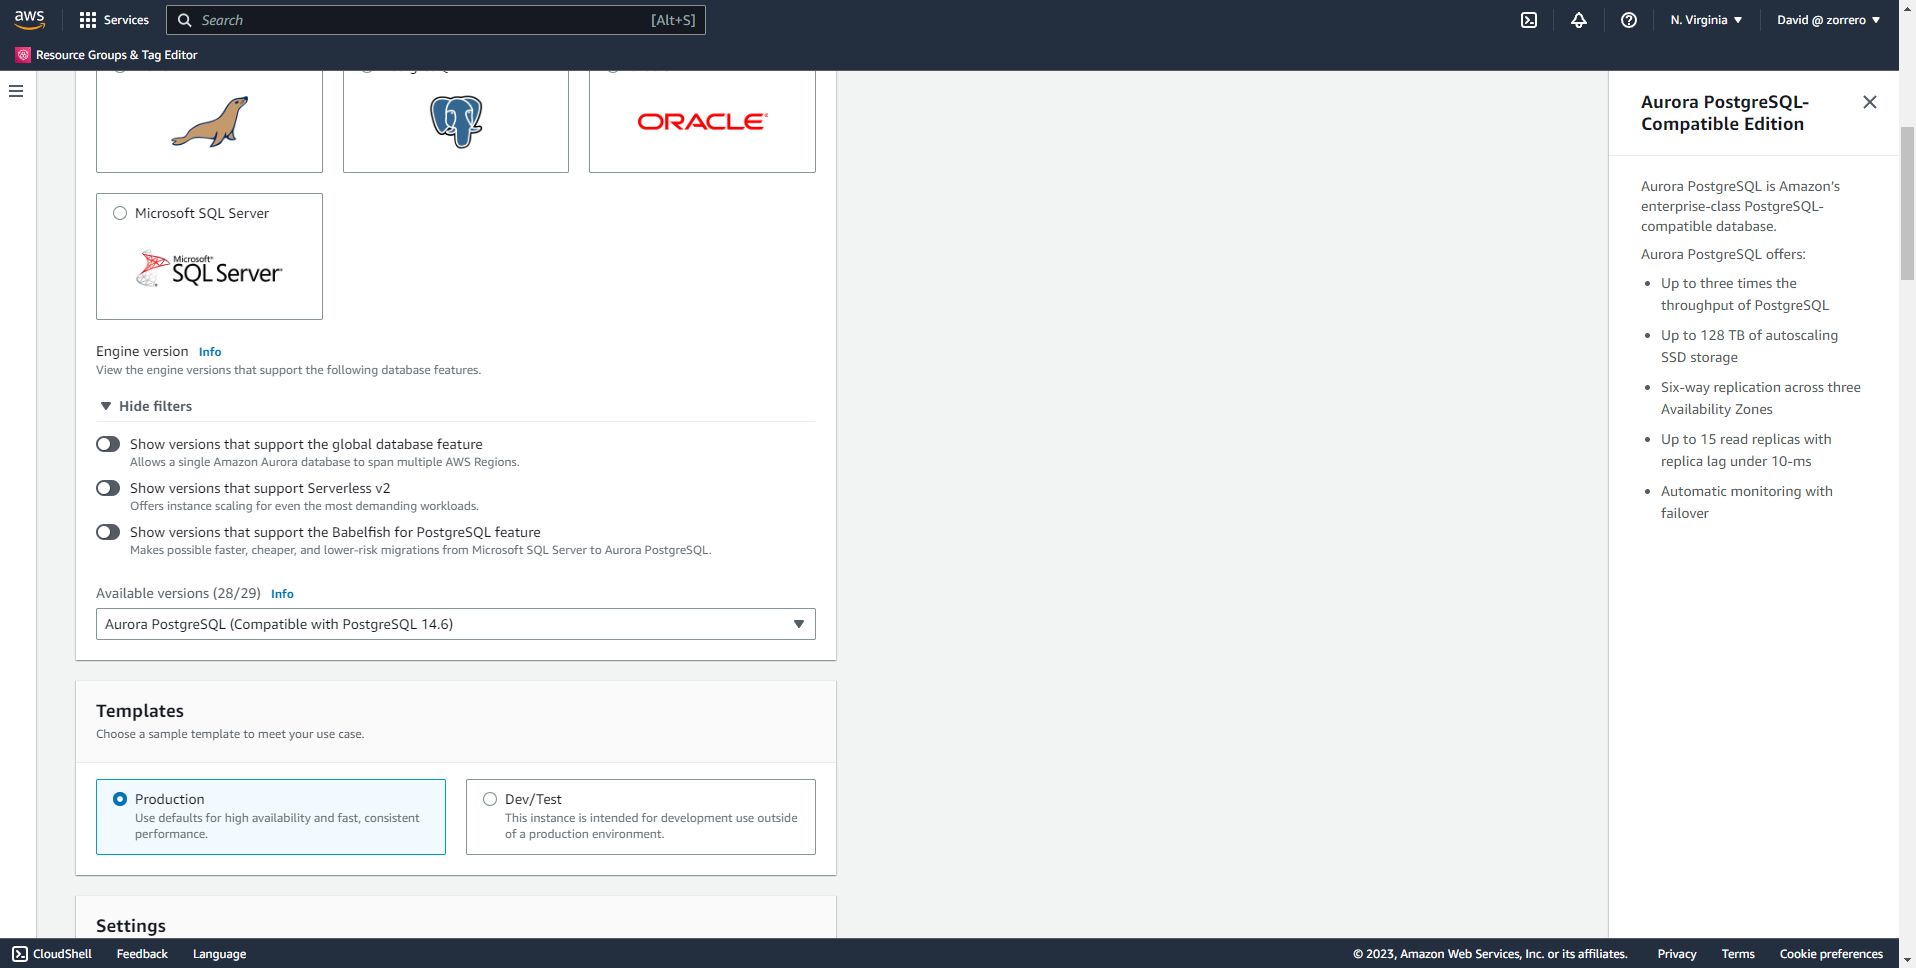
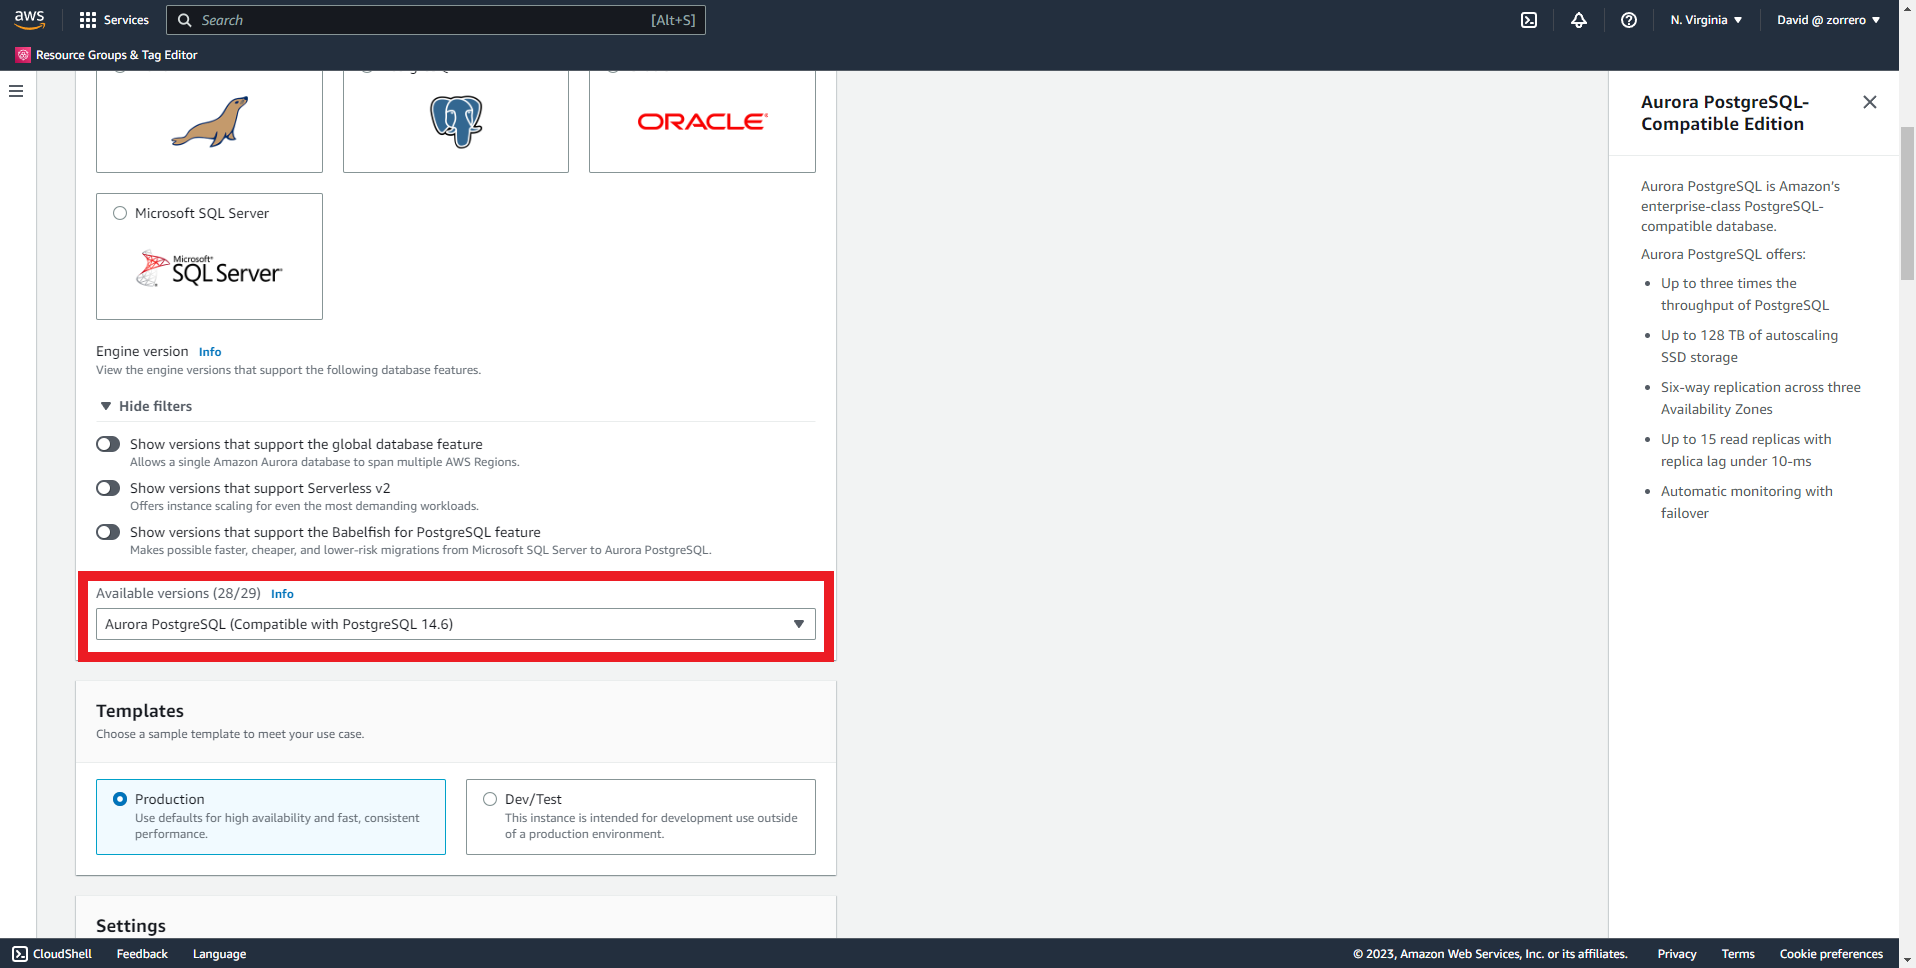
Added base solution

Changed region(s): [[0.0308, 0.5888, 0.4619, 0.6818]]

diff --git a/exercises/database/aurora/create_aurora_serverless/solution/README.md b/exercises/database/aurora/create_aurora_serverless/solution/README.md
@@ -2,13 +2,13 @@
 
 ### Solution
 
-1. Enter to RDS dashboard and click on "Create database"
-2. Select "Aurora (PostgreSQL Compatible)"
-3. Select "Aurora PostgreSQL (Compatible with PostgrSQL 14.6)"
-4. As this is a dev database select "Dev/Test" template
-5. Click on "Auto generate password"
-6. Click on "Serverless V2"
-7. Set the ACUs to 0.5 and 4 in min/max
-8. Select "Yes" for public access, be sure that your VPC has "DNS resolution" and "DNS hostnames" enabled
-9. Click on "Create new" in security groups
-10. Click on "Create database"
+1. Enter to RDS dashboard and click on "Create database" ![1](images/1.png)
+2. Select "Aurora (PostgreSQL Compatible)" ![2](images/2.png)
+3. Select "Aurora PostgreSQL (Compatible with PostgrSQL 14.6)" ![3](images/3.png)
+4. As this is a dev database select "Dev/Test" template ![4](images/4.png)
+5. Click on "Auto generate password" ![5](images/5.png)
+6. Click on "Serverless V2" ![6](images/6.png)
+7. Set the ACUs to 0.5 and 4 in min/max ![7](images/7.png)
+8. Select "Yes" for public access, be sure that your VPC has "DNS resolution" and "DNS hostnames" enabled ![8](images/8.png)
+9. Click on "Create new" in security groups ![9](images/9.png)
+10. Click on "Create database" ![10](images/10.png)
